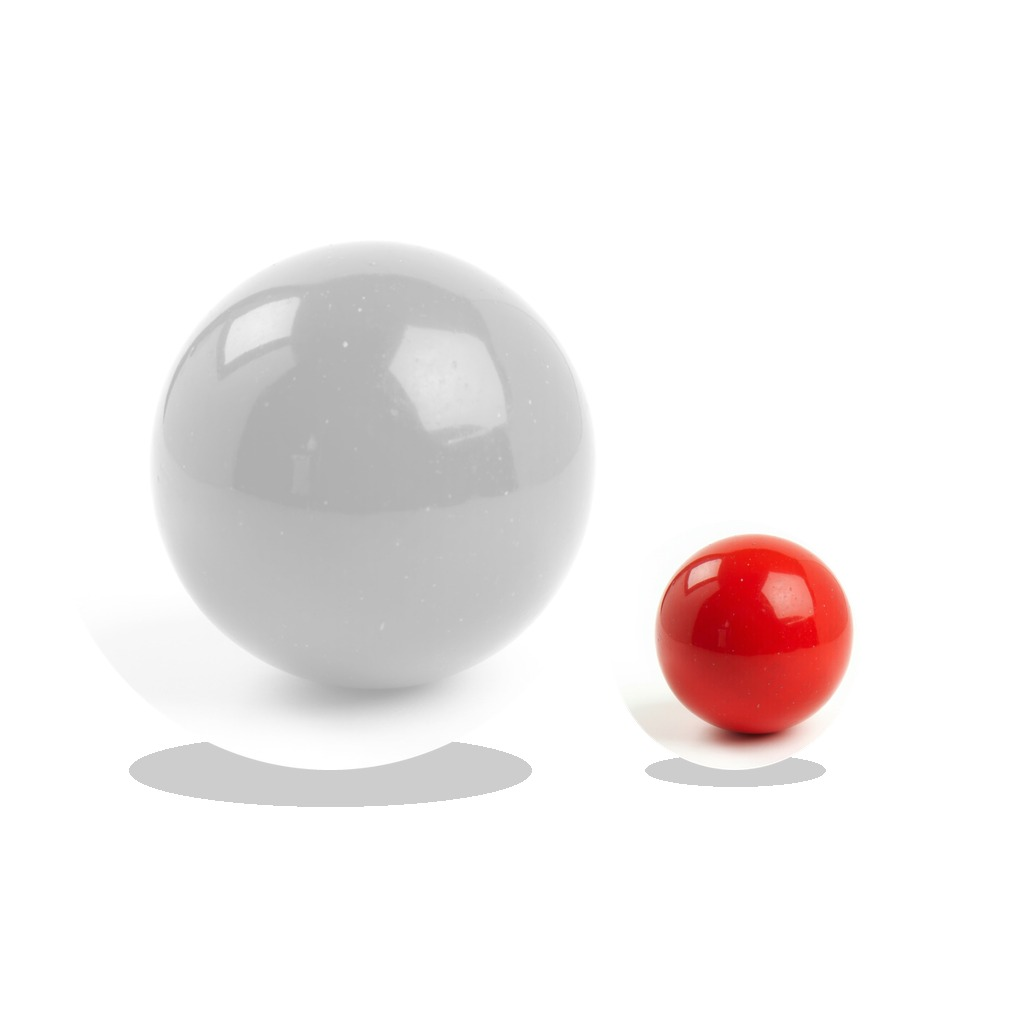
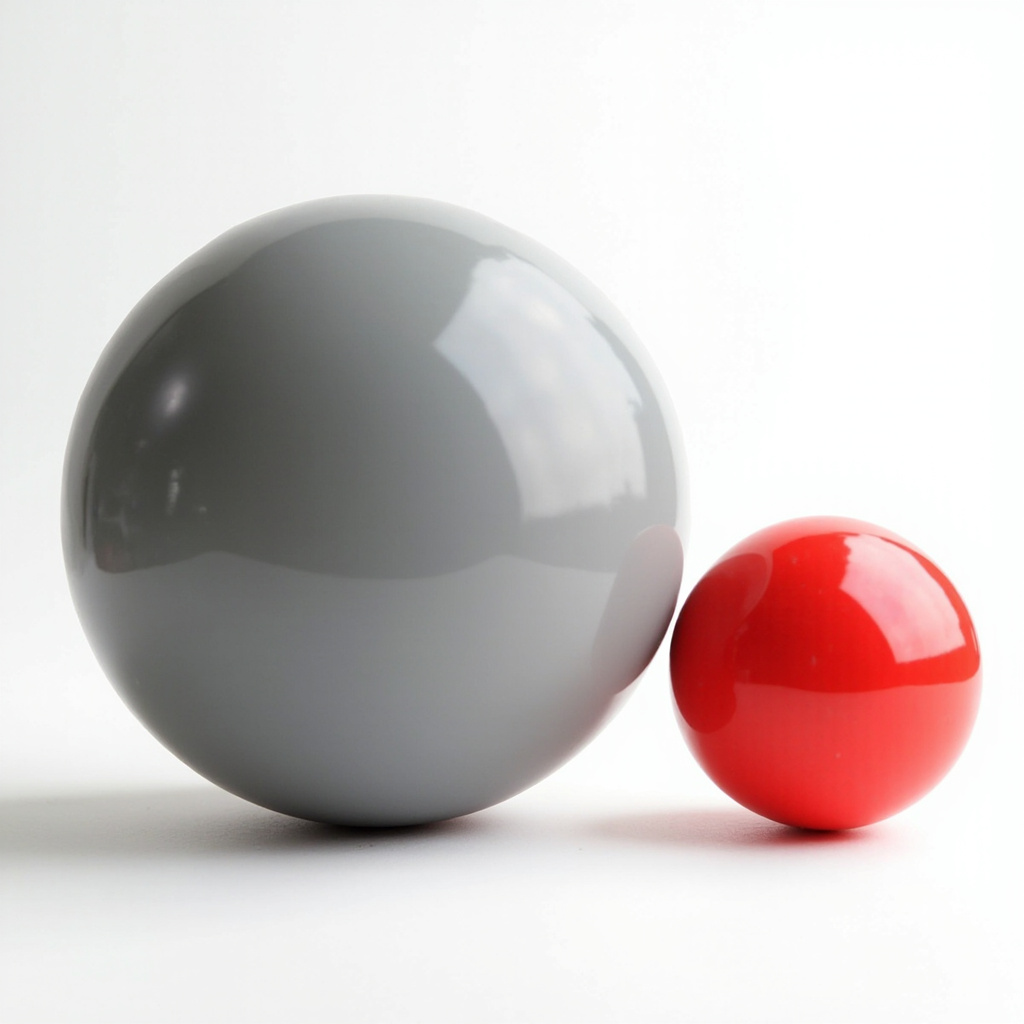
字卡大/小改用 AI 直接生成（大彩色波+細灰波 / 大灰波+細彩色波），陰影自然，取代之前程式拼砌版

diff --git a/games/flashcard-k1/gen_cards.py b/games/flashcard-k1/gen_cards.py
@@ -53,8 +53,8 @@ CARDS = [
     ("26","花","a single pink flower"),
     ("27","草","a patch of green grass"),
     ("28","人","an East Asian Chinese young child standing, black hair, dark eyes, warm tan skin, front view, realistic"),
-    ("29","大","a big grey elephant"),
-    ("30","小","a tiny cute grey mouse"),
+    ("29","大","two balls side by side on a plain white background: one LARGE bright red glossy ball and one much smaller grey ball, the big red ball clearly much bigger, soft natural shadows"),
+    ("30","小","two balls side by side on a plain white background: one LARGE grey ball and one much smaller bright red glossy ball, the small red ball clearly much smaller, soft natural shadows"),
     ("31","上","a bird flying up high with an upward arrow"),
     ("32","下","a ball falling down with a downward arrow"),
     ("33","中","a target bullseye with an object in the centre"),
